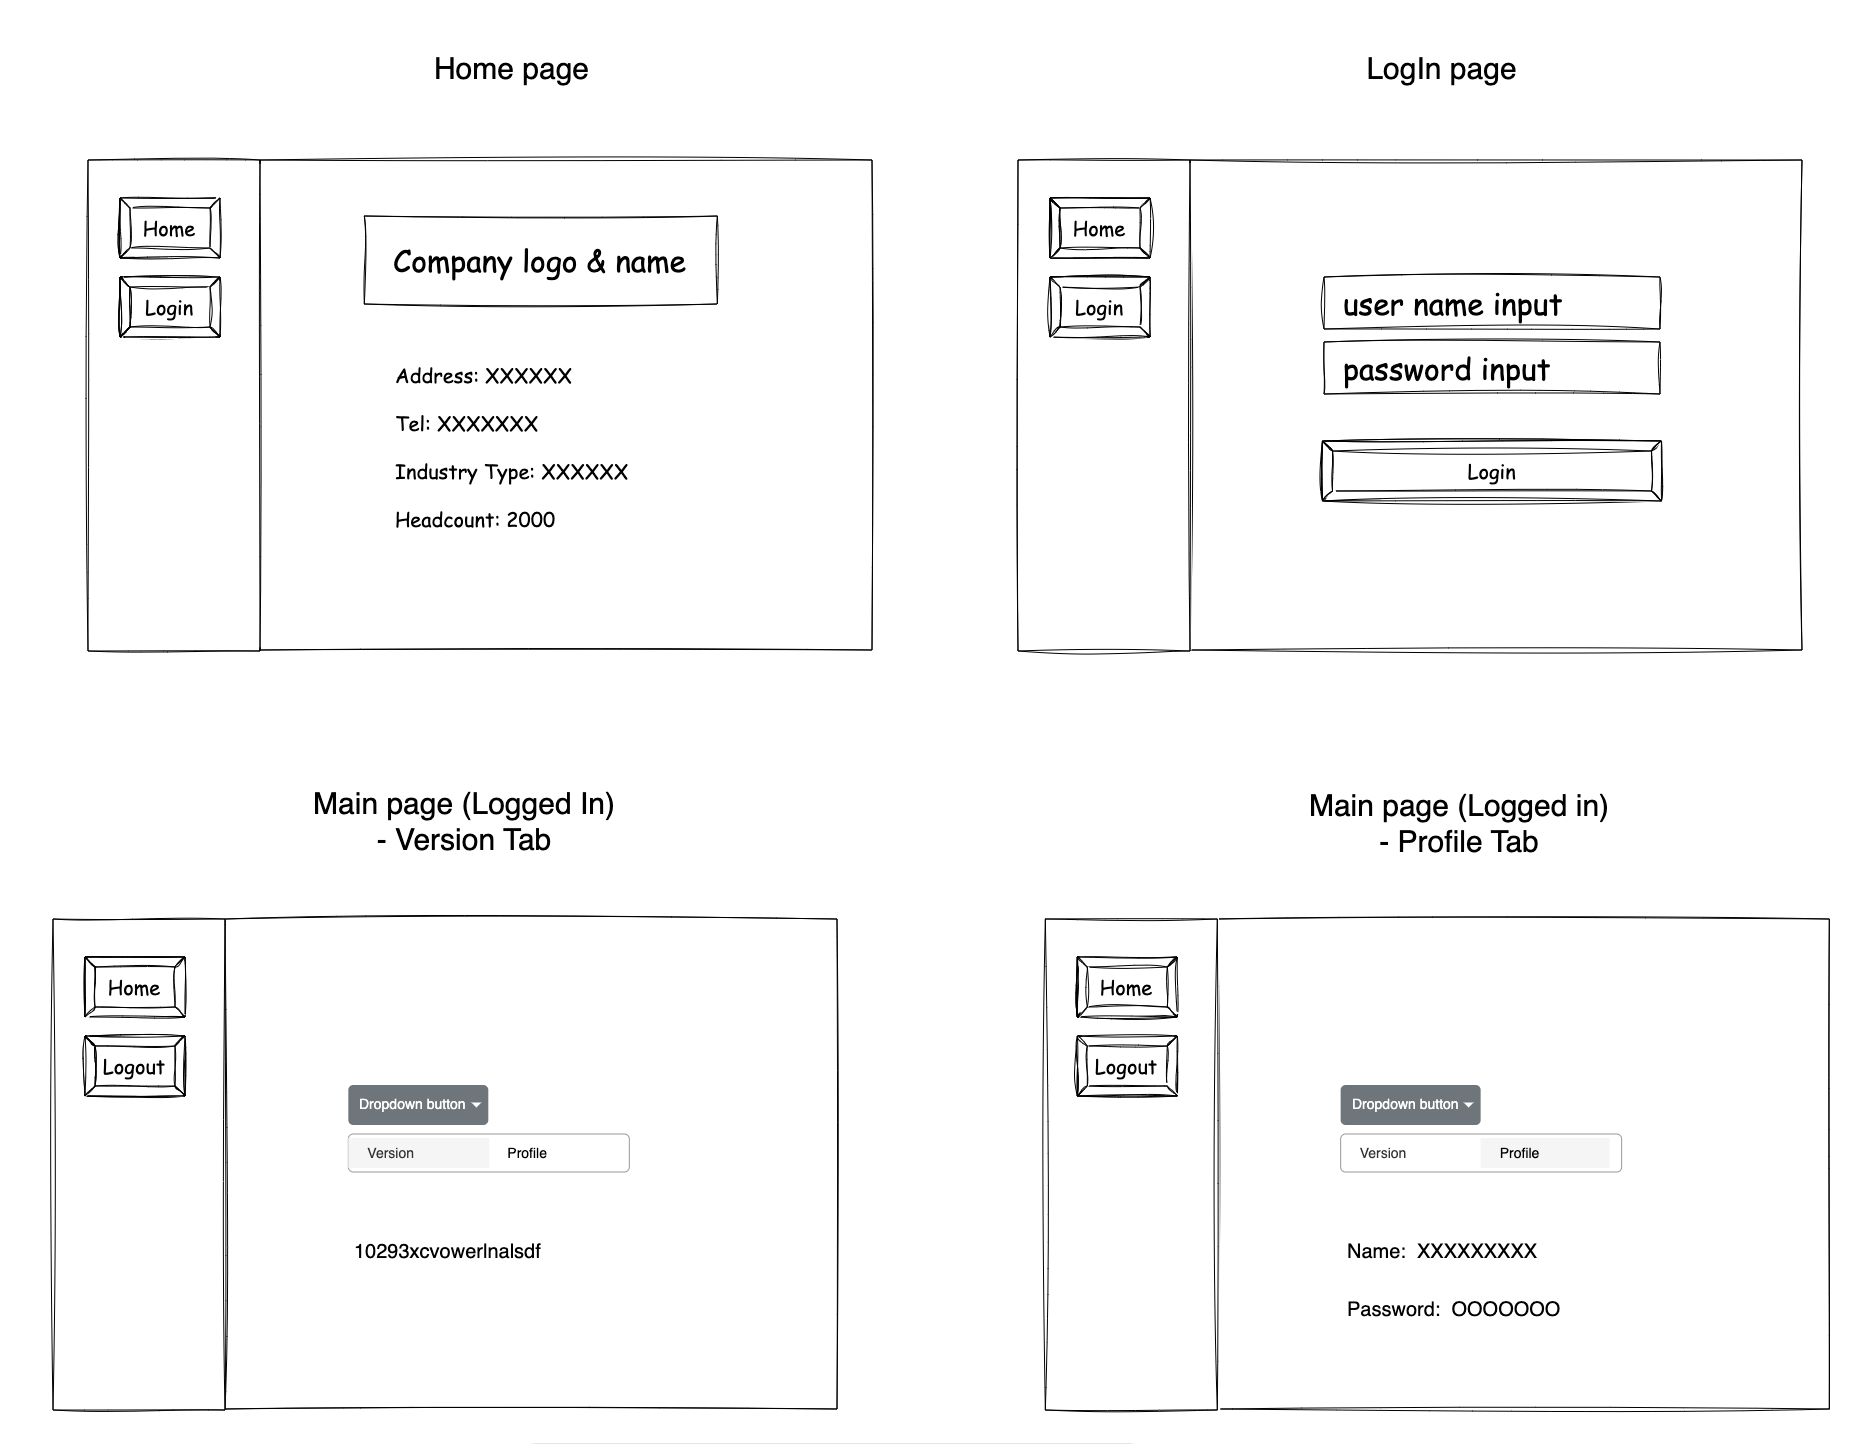
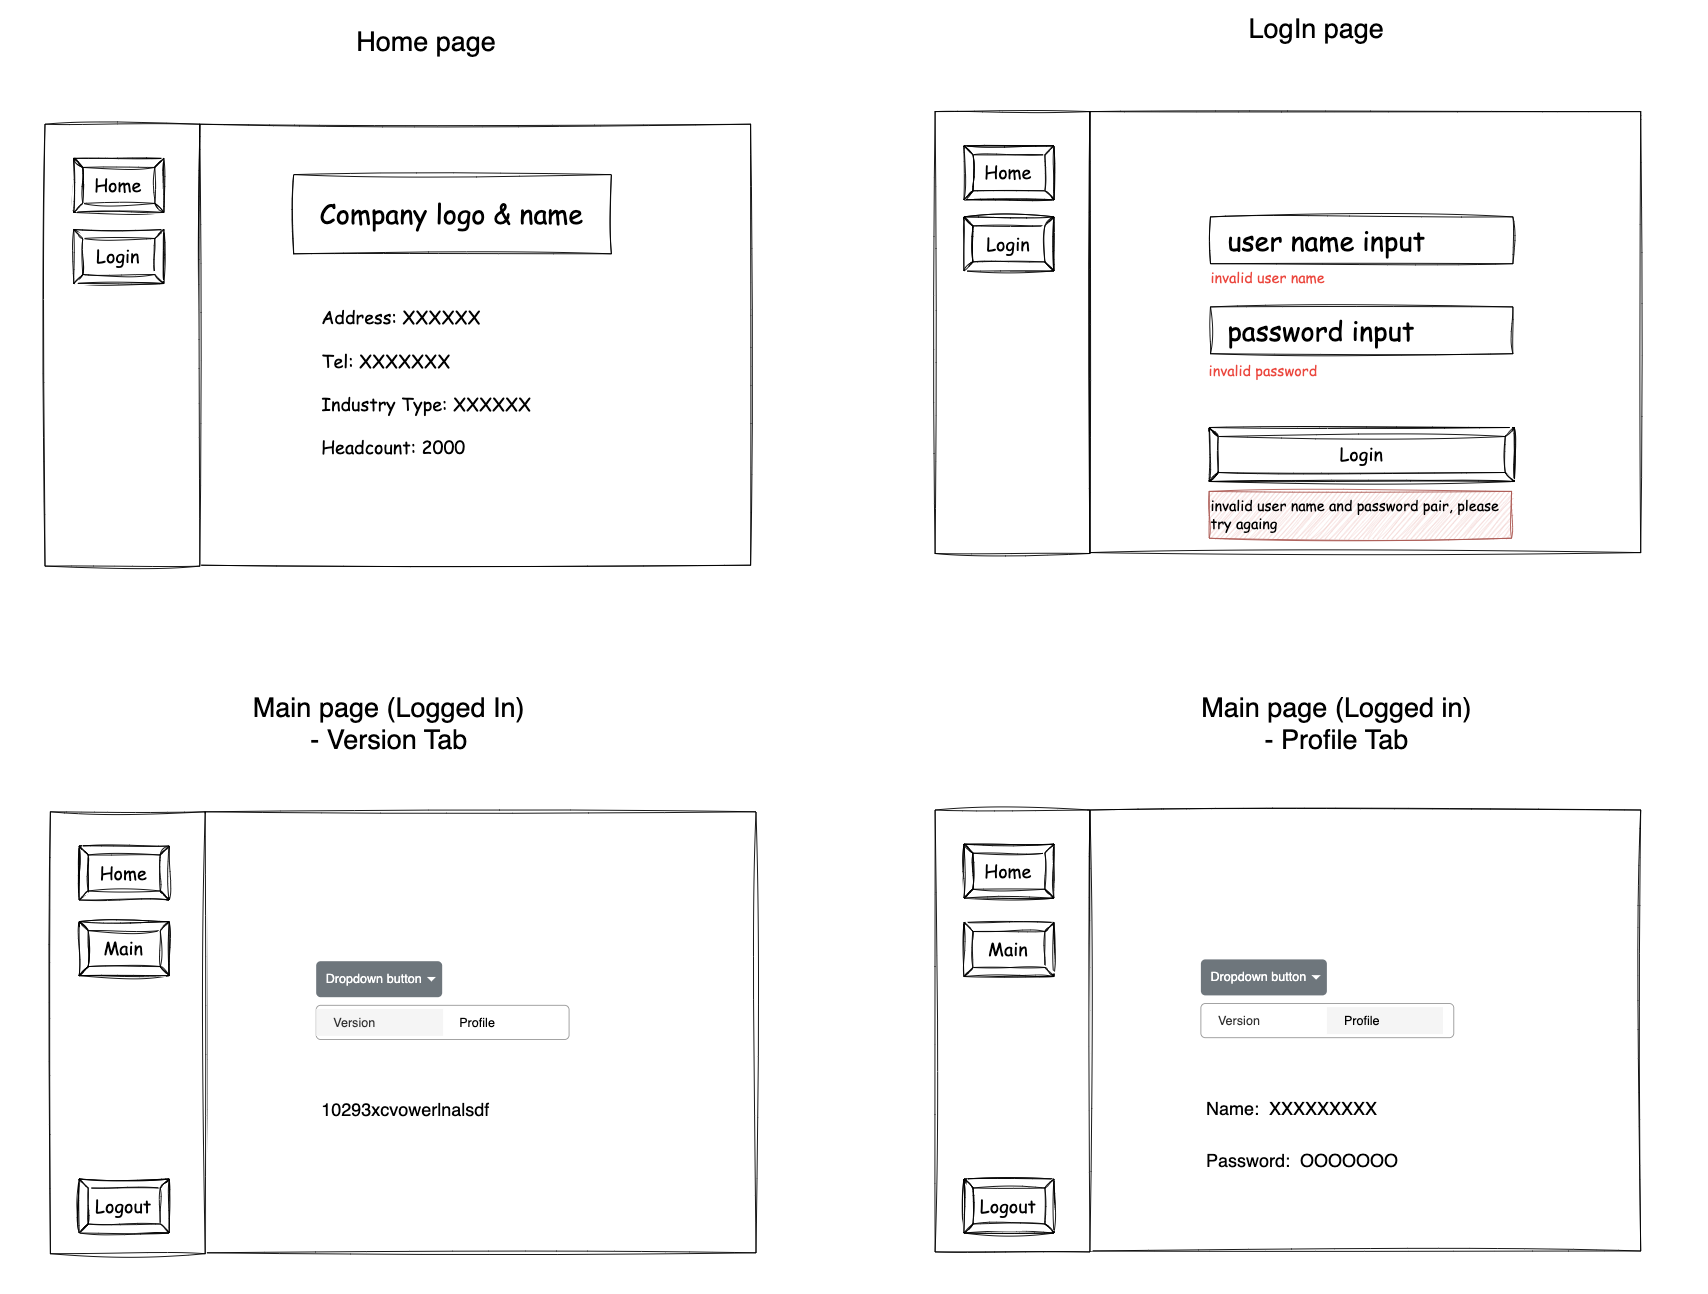
docs: update wireframe and readme

diff --git a/README.md b/README.md
@@ -1,4 +1,89 @@
-# React + TypeScript + Vite
+# Simple Login System
+
+## Requirements
+### 中文
+簡單的登入登出App
+==============================================================================
+
+請遵循以下的規則:
+- 裡面的所有元件, 請自己命名成合理的名字.
+- 原先給的框架請不要改變, 但命名,設定和内容可以更改.
+- 請照著自己覺得合理的邏輯去寫.
+
+==============================================================================
+
+- 在 Left 裡面的元件:
+	- Button 1:
+		- 功能: 首頁: 以下 Right 首頁區看説明.
+	- Button 2: 
+		- 功能: 登入: 以下 Right 登入區看説明.
+	- Button 3:
+		- 功能: 登出: 以下 Right 登出區看説明.
+- 在 Right 裡面的元件:
+	- 首頁: 不管是登入或登出的狀態, 請顯示簡單的公司資訊.
+	- 登入: 如果是登出的狀態: 
+         - 有個地方讓使用者輸入使用者名稱.
+         - 有個地方讓使用者輸入密碼.
+         - 有個 Button 可以讓使用者登入.
+		   如果是登入的狀態:
+         - 正中間放一個下拉選單:
+            - 按下下拉選單後下方彈出的選單需要符合以下功能:
+               - 選單裡需要有兩個Tabs可以讓使用者選取
+                  - 當左邊的Tab被選取時, 使用者需要在選單裡看到版本號 (請給個假的號碼)
+                  - 當右邊的Tab被選取時, 使用者需要在選單裡看到登入的名稱和密碼
+	- 登出: 讓狀態變成登出
+
+
+### 英文
+Simple Login/Logout App
+==============================================================================
+
+Please follow these rules:
+   - Name all components with reasonable names.
+   - Do not change the given framework, but you can change the naming, settings, and content as you see fit.
+   - Write the logic as you think is reasonable.
+
+==============================================================================
+
+- In the Left component:
+   - Button 1:
+      - Function: Home page. See the description in the Right Home section below.
+   - Button 2:
+      - Function: Login. See the description in the Right Login section below.
+   - Button 3:
+      - Function: Logout. See the description in the Right Logout section below.
+- In the Right component:
+   - Home: Display simple company information regardless of whether the user is logged in or logged out.
+   - Login: If in the logged out state:
+      - Provide a field for the user to enter their username.
+      - Provide a field for the user to enter their password.
+      - Include a button for the user to log in.
+   - If in the logged in state:
+      - Place a dropdown menu in the center:
+      - The dropdown menu should have two tabs for user selection:
+      - When the left tab is selected, the user should see a version number in the menu (provide a fake number).
+      - When the right tab is selected, the user should see the logged-in username and password in the menu.
+Logout: Change the state to logged out.
+
+&nbsp;
+
+## Wireframe
+
+![Wireframe](./wireframe.png)
+
+&nbsp;
+
+## How to start
+
+```bash
+yarn dev
+```
+
+&nbsp;
+&nbsp;
+
+
+# Vite building message
 
 This template provides a minimal setup to get React working in Vite with HMR and some ESLint rules.
 
